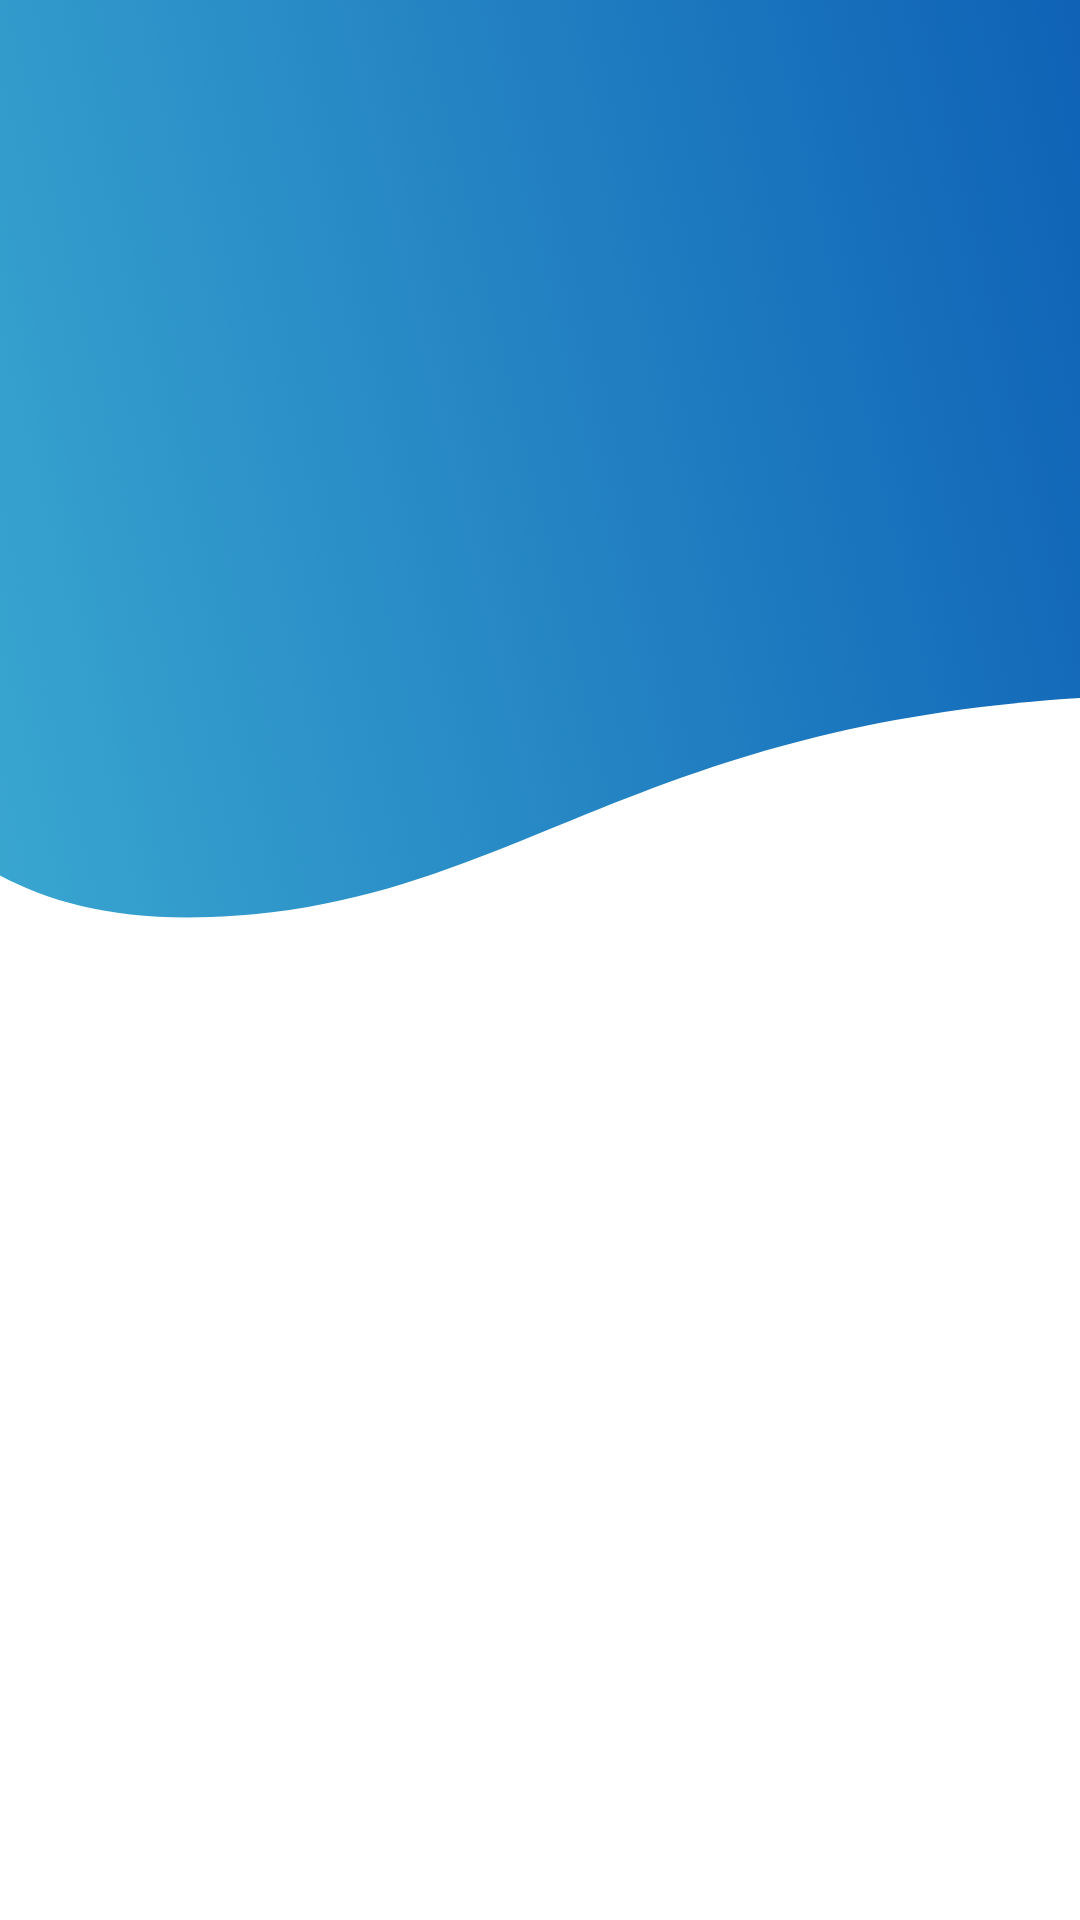
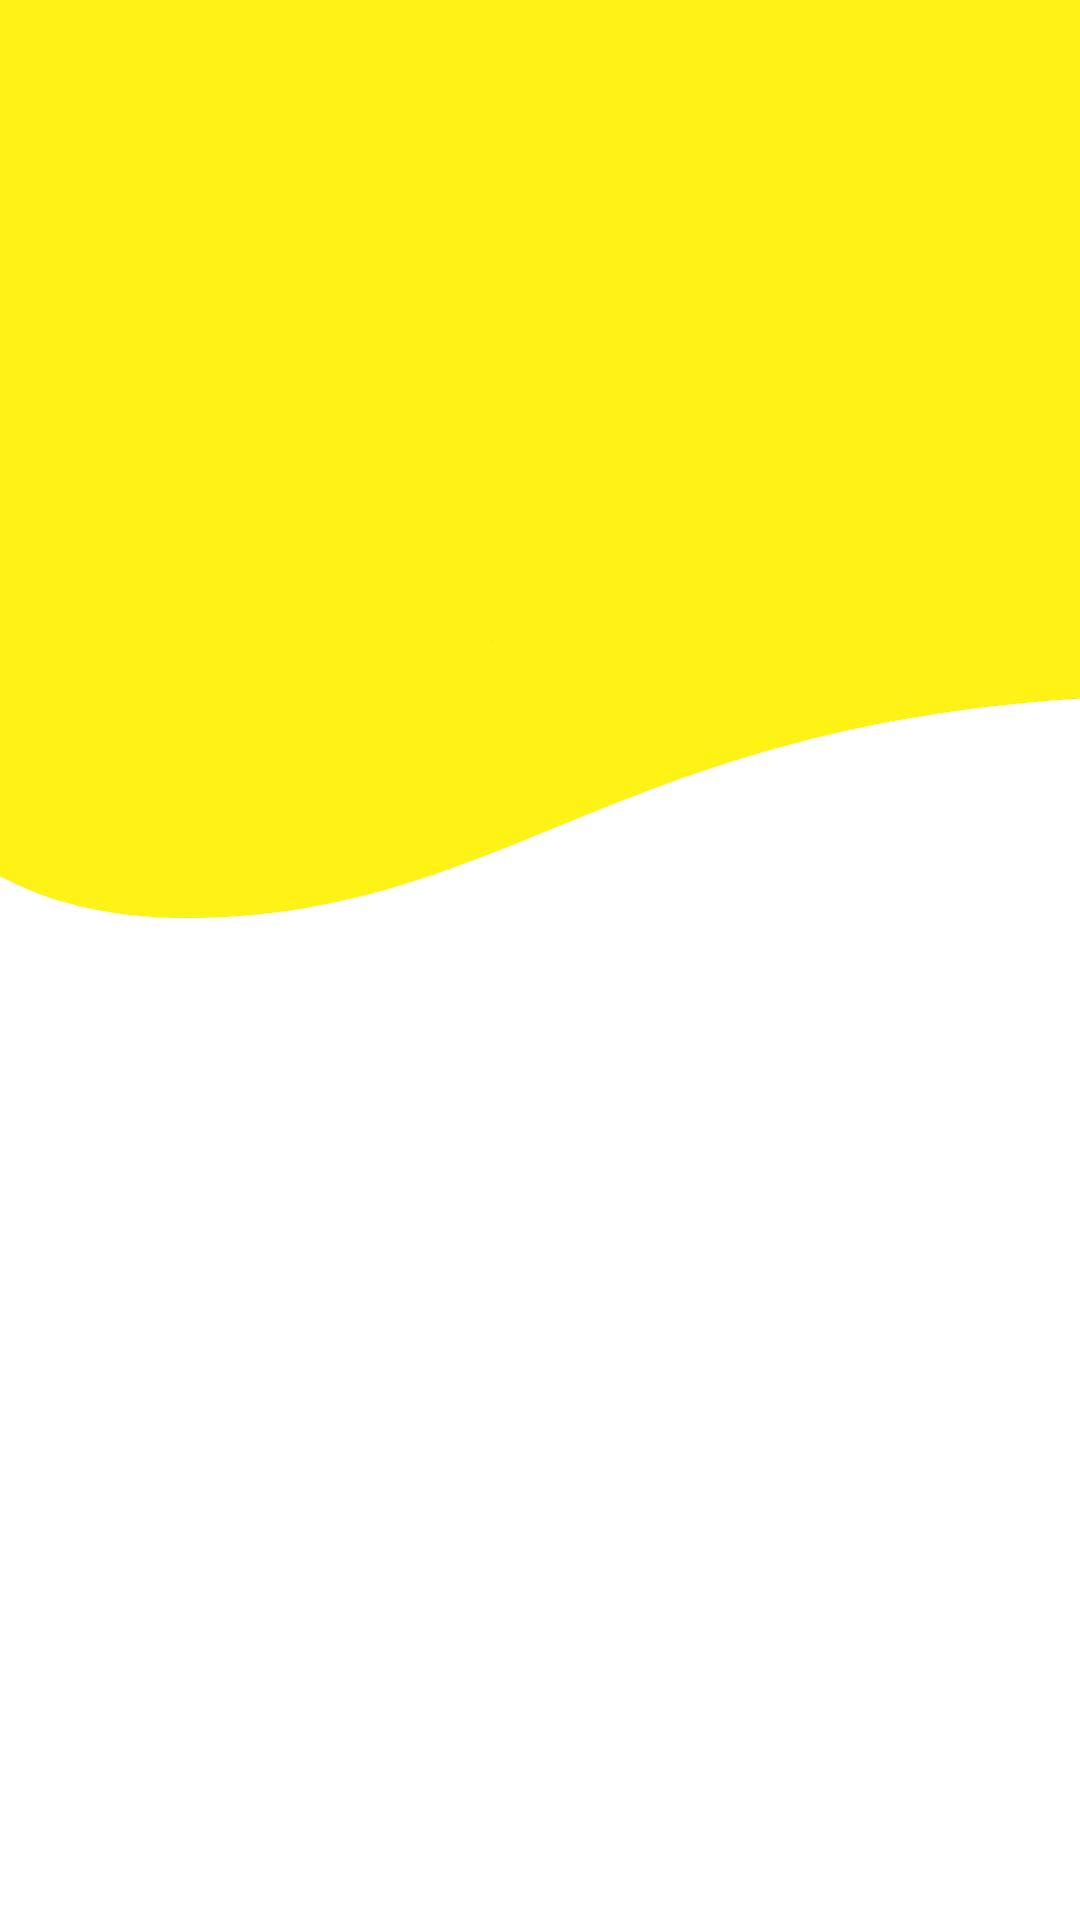
Fixing styles in login and signup page

diff --git a/mobile/src/pages/login/Signup.js b/mobile/src/pages/login/Signup.js
@@ -19,7 +19,7 @@ function Signup() {
 
             <View className="h-full w-full justify-around pt-48 pb-10'">
                 <View className="flex items-center">
-                    <Animated.Text entering={FadeInUp.duration(1000).springify()} className="text-white font-bold tracking-wider text-5xl">
+                    <Animated.Text entering={FadeInUp.duration(1000).springify()} className="text-black font-bold tracking-wider text-5xl">
                         Registriraj se
                     </Animated.Text>
                 </View>
@@ -35,8 +35,8 @@ function Signup() {
                         <TextInput placeholder='Password' placeholderTextColor={'gray'} secureTextEntry />
                     </Animated.View>
                     <Animated.View entering={FadeInDown.delay(600).duration(1000).springify()} className="w-full">
-                        <TouchableOpacity className="w-full bg-sky-400 rounded-2xl mb-3 py-3">
-                            <Text className="text-xl font-bold text-white text-center">
+                        <TouchableOpacity className="w-full bg-yellow-200 rounded-2xl mb-3 py-3">
+                            <Text className="text-xl font-bold text-black text-center">
                                 Registriraj se
                             </Text>
                         </TouchableOpacity>
@@ -44,7 +44,7 @@ function Signup() {
                     <Animated.View entering={FadeInDown.delay(800).duration(1000).springify()} className="flex-row justify-center">
                         <Text>Već imate račun? </Text>
                         <TouchableOpacity onPress={() => navigation.push("Login")}>
-                            <Text className="text-sky-600">
+                            <Text className="text-black underline">
                                 Prijavi se!
                             </Text>
                         </TouchableOpacity>

diff --git a/mobile/src/pages/login/Login.js b/mobile/src/pages/login/Login.js
@@ -19,7 +19,7 @@ function Login() {
 
             <View className="h-full w-full justify-around pt-40 pb-10'">
                 <View className="flex items-center">
-                    <Animated.Text entering={FadeInUp.duration(1000).springify()} className="text-white font-bold tracking-wider text-5xl">
+                    <Animated.Text entering={FadeInUp.duration(1000).springify()} className="text-black font-bold tracking-wider text-5xl">
                         Prijavi se
                     </Animated.Text>
                 </View>
@@ -32,8 +32,8 @@ function Login() {
                         <TextInput placeholder='Password' placeholderTextColor={'gray'} secureTextEntry />
                     </Animated.View>
                     <Animated.View entering={FadeInDown.delay(400).duration(1000).springify()} className="w-full">
-                        <TouchableOpacity className="w-full bg-sky-400 rounded-2xl mb-3 py-3">
-                            <Text className="text-xl font-bold text-white text-center">
+                        <TouchableOpacity className="w-full bg-yellow-200 rounded-2xl mb-3 py-3">
+                            <Text className="text-xl font-bold text-black text-center">
                                 Prijavi se
                             </Text>
                         </TouchableOpacity>
@@ -41,7 +41,7 @@ function Login() {
                     <Animated.View entering={FadeInDown.delay(600).duration(1000).springify()} className="flex-row justify-center">
                         <Text>Nemate račun? </Text>
                         <TouchableOpacity onPress={() => navigation.push("Signup")}>
-                            <Text className="text-sky-600">
+                            <Text className="text-black underline">
                                 Registriraj se!
                             </Text>
                         </TouchableOpacity>
